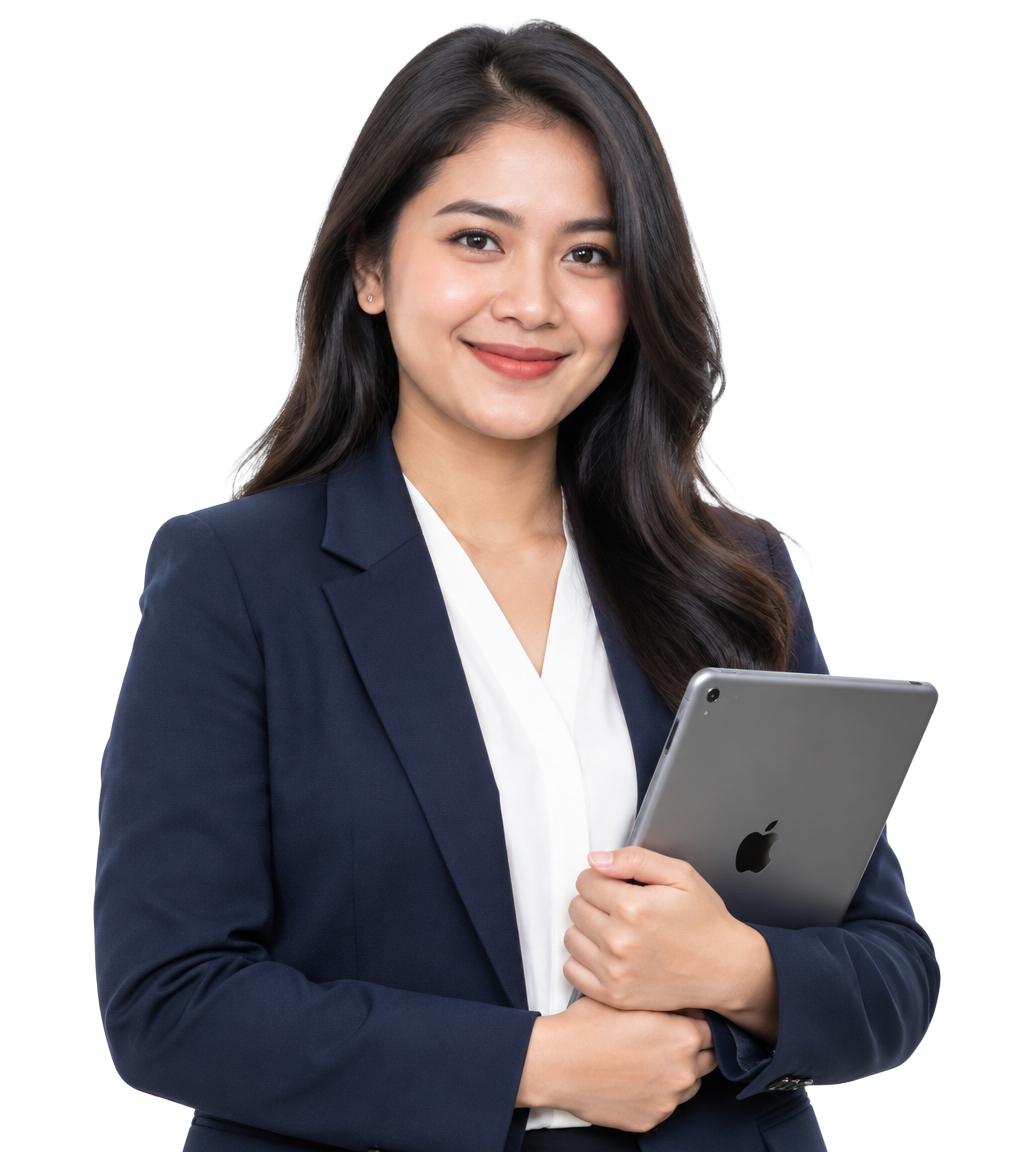
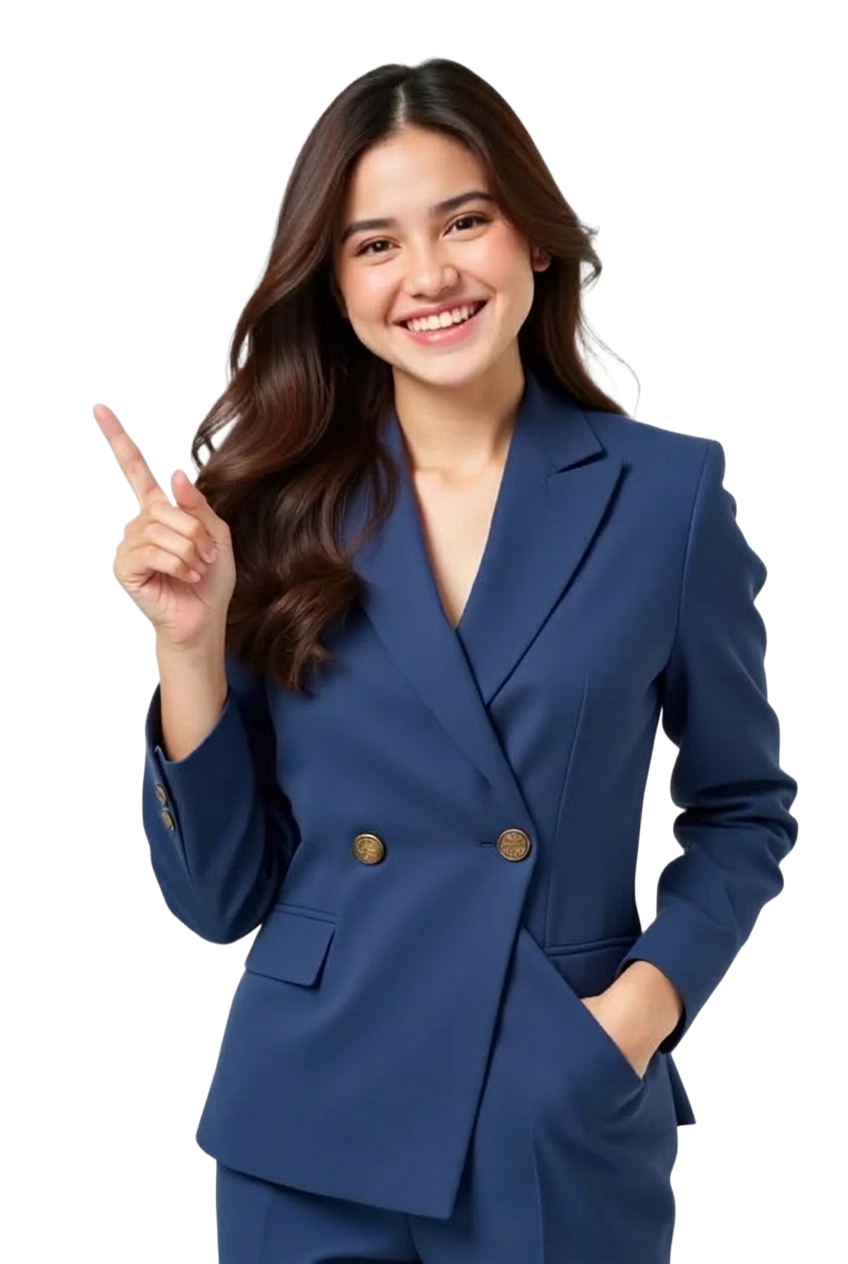
Changes

diff --git a/src/App.tsx b/src/App.tsx
@@ -18,6 +18,7 @@ import CustomerApp from "./pages/CustomerApp";
 import NotFound from "./pages/NotFound";
 import FlowLanding from "./pages/flow/FlowLanding";
 import FlowOnboarding from "./pages/flow/FlowOnboarding";
+import FlowSignup from "./pages/flow/FlowSignup";
 import { HomeGate } from "./pages/flow/HomeGate";
 import { FlowDetail, FlowPricing, FlowCustomers, FlowAbout } from "./pages/flow/FlowPages";
 import AdminDashboard from "./pages/AdminDashboard";
@@ -79,6 +80,7 @@ const App = () => (
             <Route path="/reset-password" element={<ResetPassword />} />
             <Route path="/landing" element={<FlowLanding />} />
             <Route path="/onboarding" element={<FlowOnboarding />} />
+            <Route path="/daftar" element={<FlowSignup />} />
             <Route path="/produk/:slug" element={<FlowDetail kind="produk" />} />
             <Route path="/solusi/:slug" element={<FlowDetail kind="solusi" />} />
             <Route path="/harga" element={<FlowPricing />} />

diff --git a/src/pages/flow/HomeGate.tsx b/src/pages/flow/HomeGate.tsx
@@ -10,6 +10,6 @@ export const HomeGate = ({ children }: { children: ReactNode }) => {
   if (loading) return null;
   if (!user) return <FlowLanding />;
   const meta = (user.user_metadata || {}) as Record<string, any>;
-  if (meta.flow_tenant) return meta.onboarded ? <FlowWorkspace /> : <Navigate to="/daftar" replace />;
+  if (meta.flow_tenant) return meta.onboarded ? <FlowWorkspace /> : <Navigate to="/onboarding" replace />;
   return <>{children}</>;
 };

diff --git a/roadmap.md b/roadmap.md
@@ -3,3 +3,4 @@
 - [x] FlowF&B marketing website + company onboarding signup
 - [ ] Superadmin SaaS module toggles (per-tenant feature flags)
 - [ ] Full multi-tenant provisioning (tenants table, tenant_id on data) — follows docs/saas-blueprint.md
+- [ ] Hero pakai foto model upload user (background dihapus)
